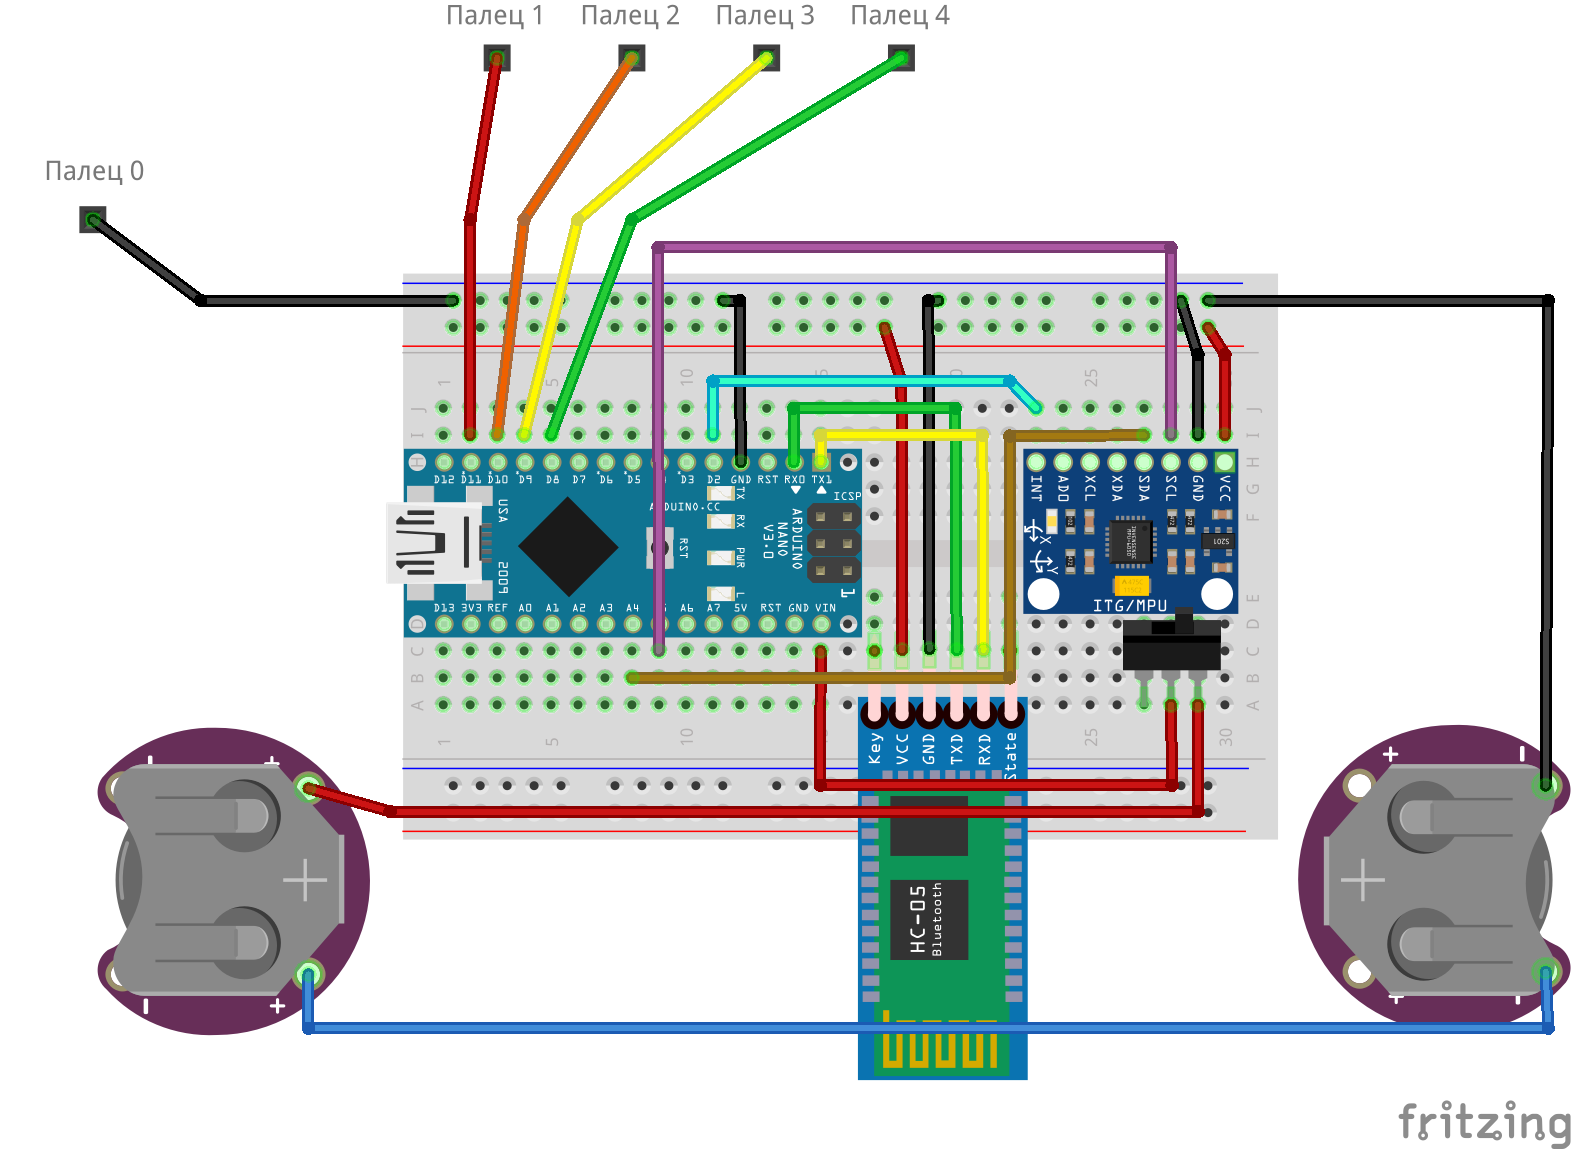
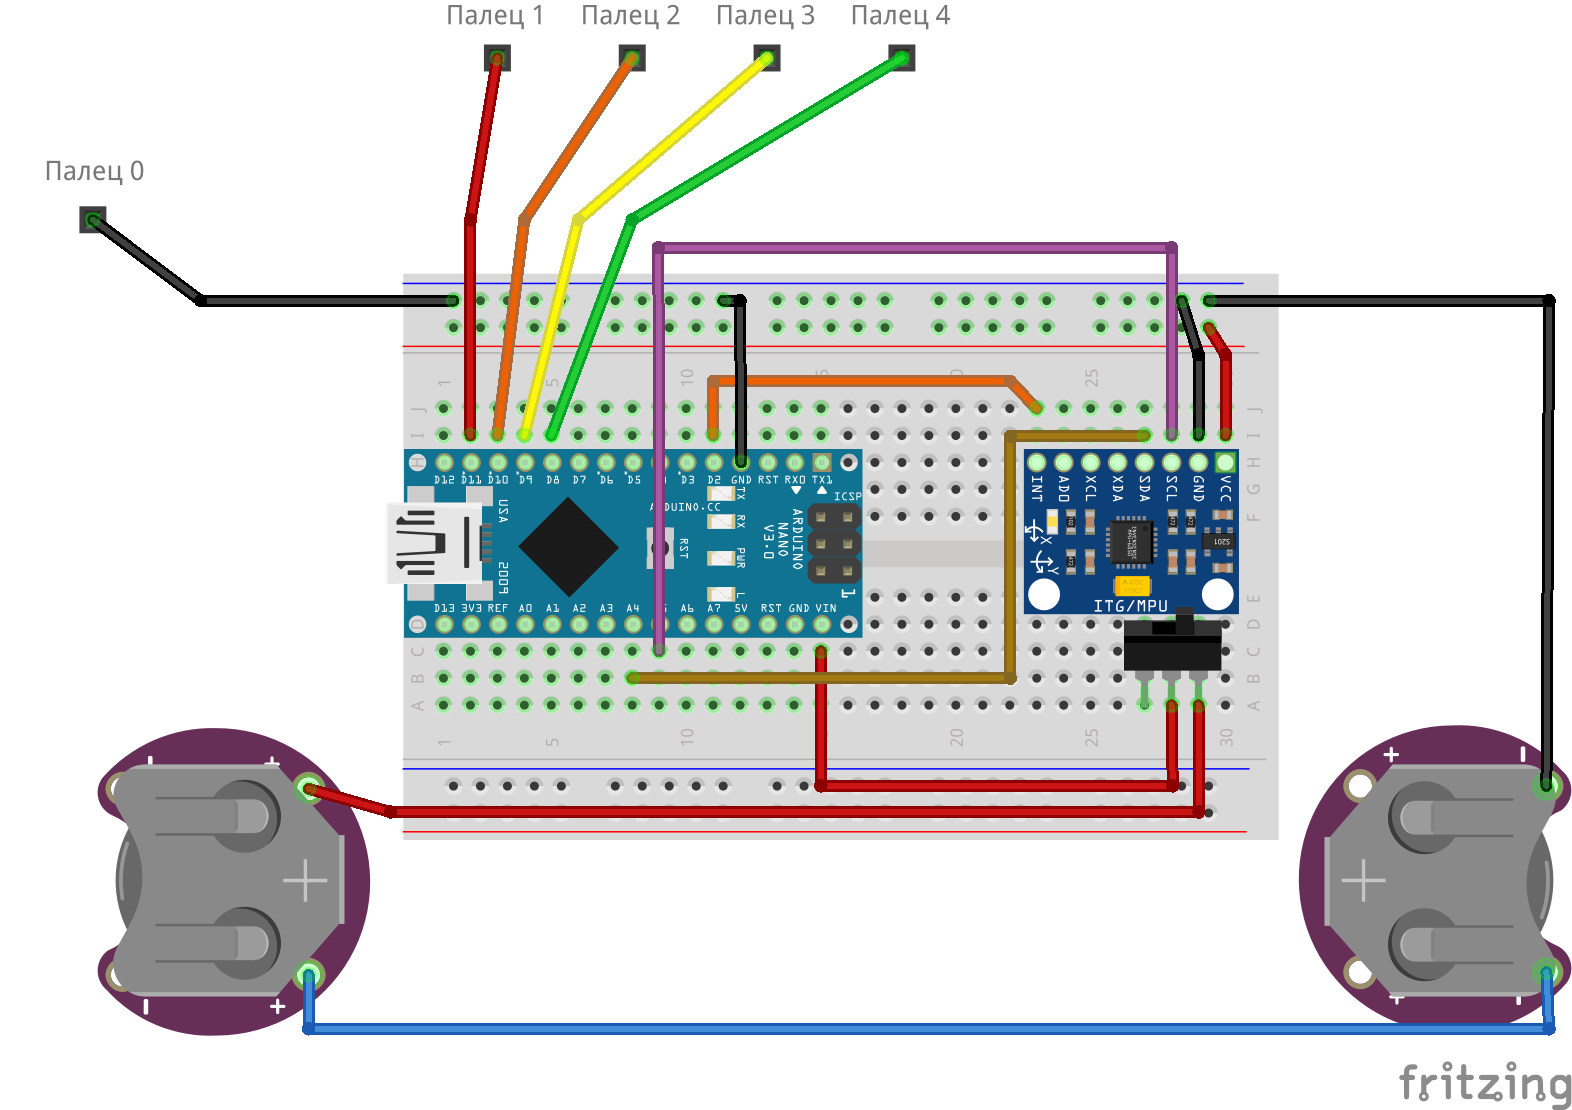
add the controller circuit without hc-05

diff --git a/README.md b/README.md
@@ -8,7 +8,7 @@
 
 # Схема для перчатки управления
 
-![controller](controller.png)
+![controller](controller-bt.png)
 
 # Схема для манипулятора
 
